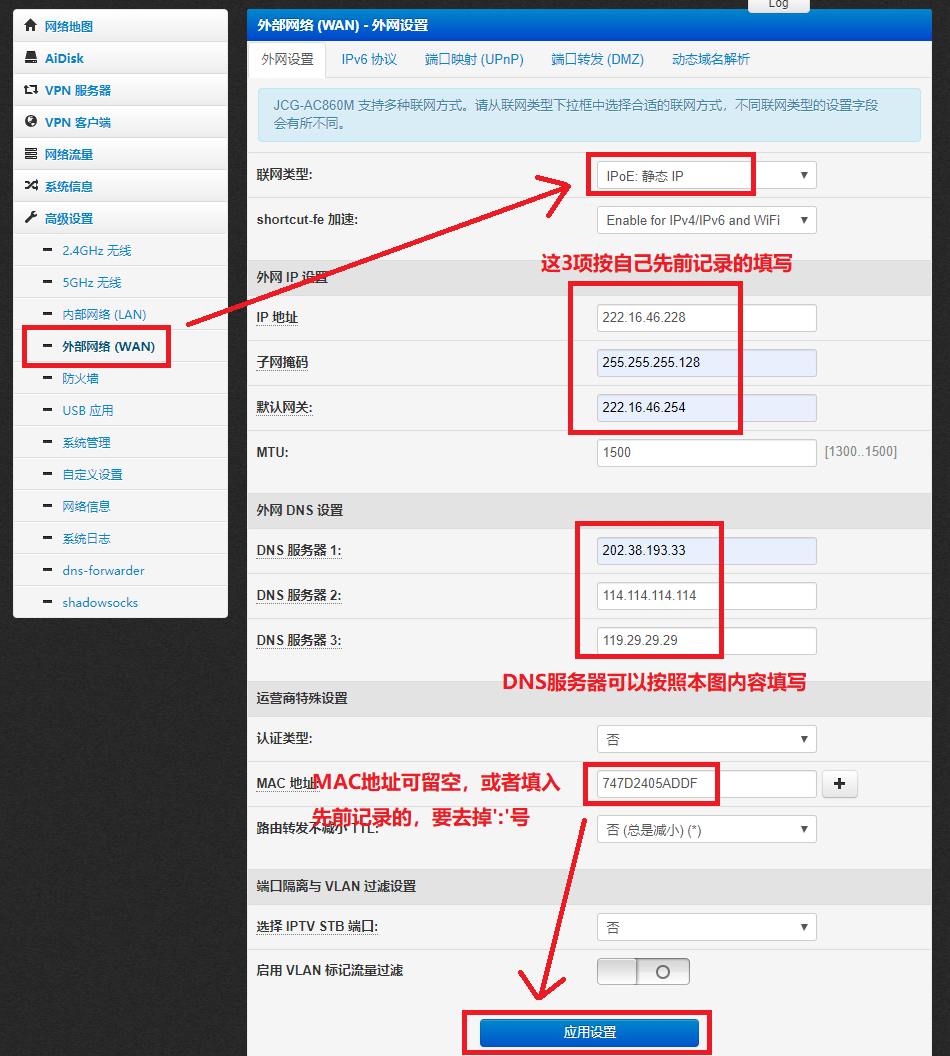
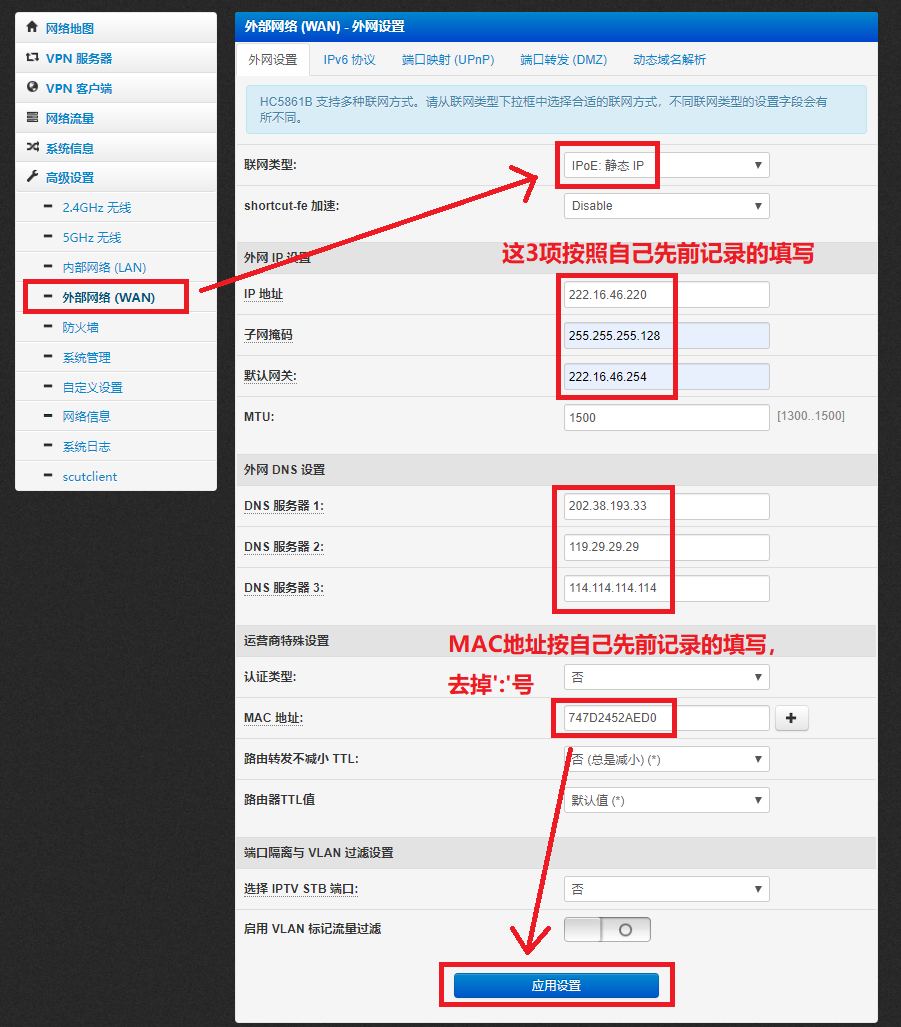
update

Changed region(s): [[0.0, 0.0, 0.9945, 1.0]]

diff --git a/guide.md b/guide.md
@@ -162,7 +162,7 @@ scut_padavan集成的scutclient为[原项目](https://github.com/scutclient/scut
 
 <div STYLE="page-break-after: always;"></div>
 
-13. 在管理界面内，首先按照下图配置`外部网络(WAN)`，填入先前记录的`IP地址、子网掩码和网关`，而DNS服务器可以填写跟网上营业厅给的不一样的，可按照图片里的填。至于MAC地址，由于目前不会校验客户端MAC，所以可留空或者填入先前记录好的MAC地址(去掉`:`后填入)。填写完成之后点击**应用设置**，数秒后会自动刷新。如果没有自动刷新，请手动点一下浏览器的刷新键
+1.  在管理界面内，首先按照下图配置`外部网络(WAN)`，填入先前记录的`IP地址、子网掩码和网关`，而DNS服务器可以填写跟网上营业厅给的不一样的，也可以按照图片里的填，最后填入先前记录的MAC地址(去掉`:`后填入)。填写完成之后点击**应用设置**，数秒后会自动刷新。如果没有自动刷新，请手动点一下浏览器的刷新键
 
     ![](img/WAN.png)
 
